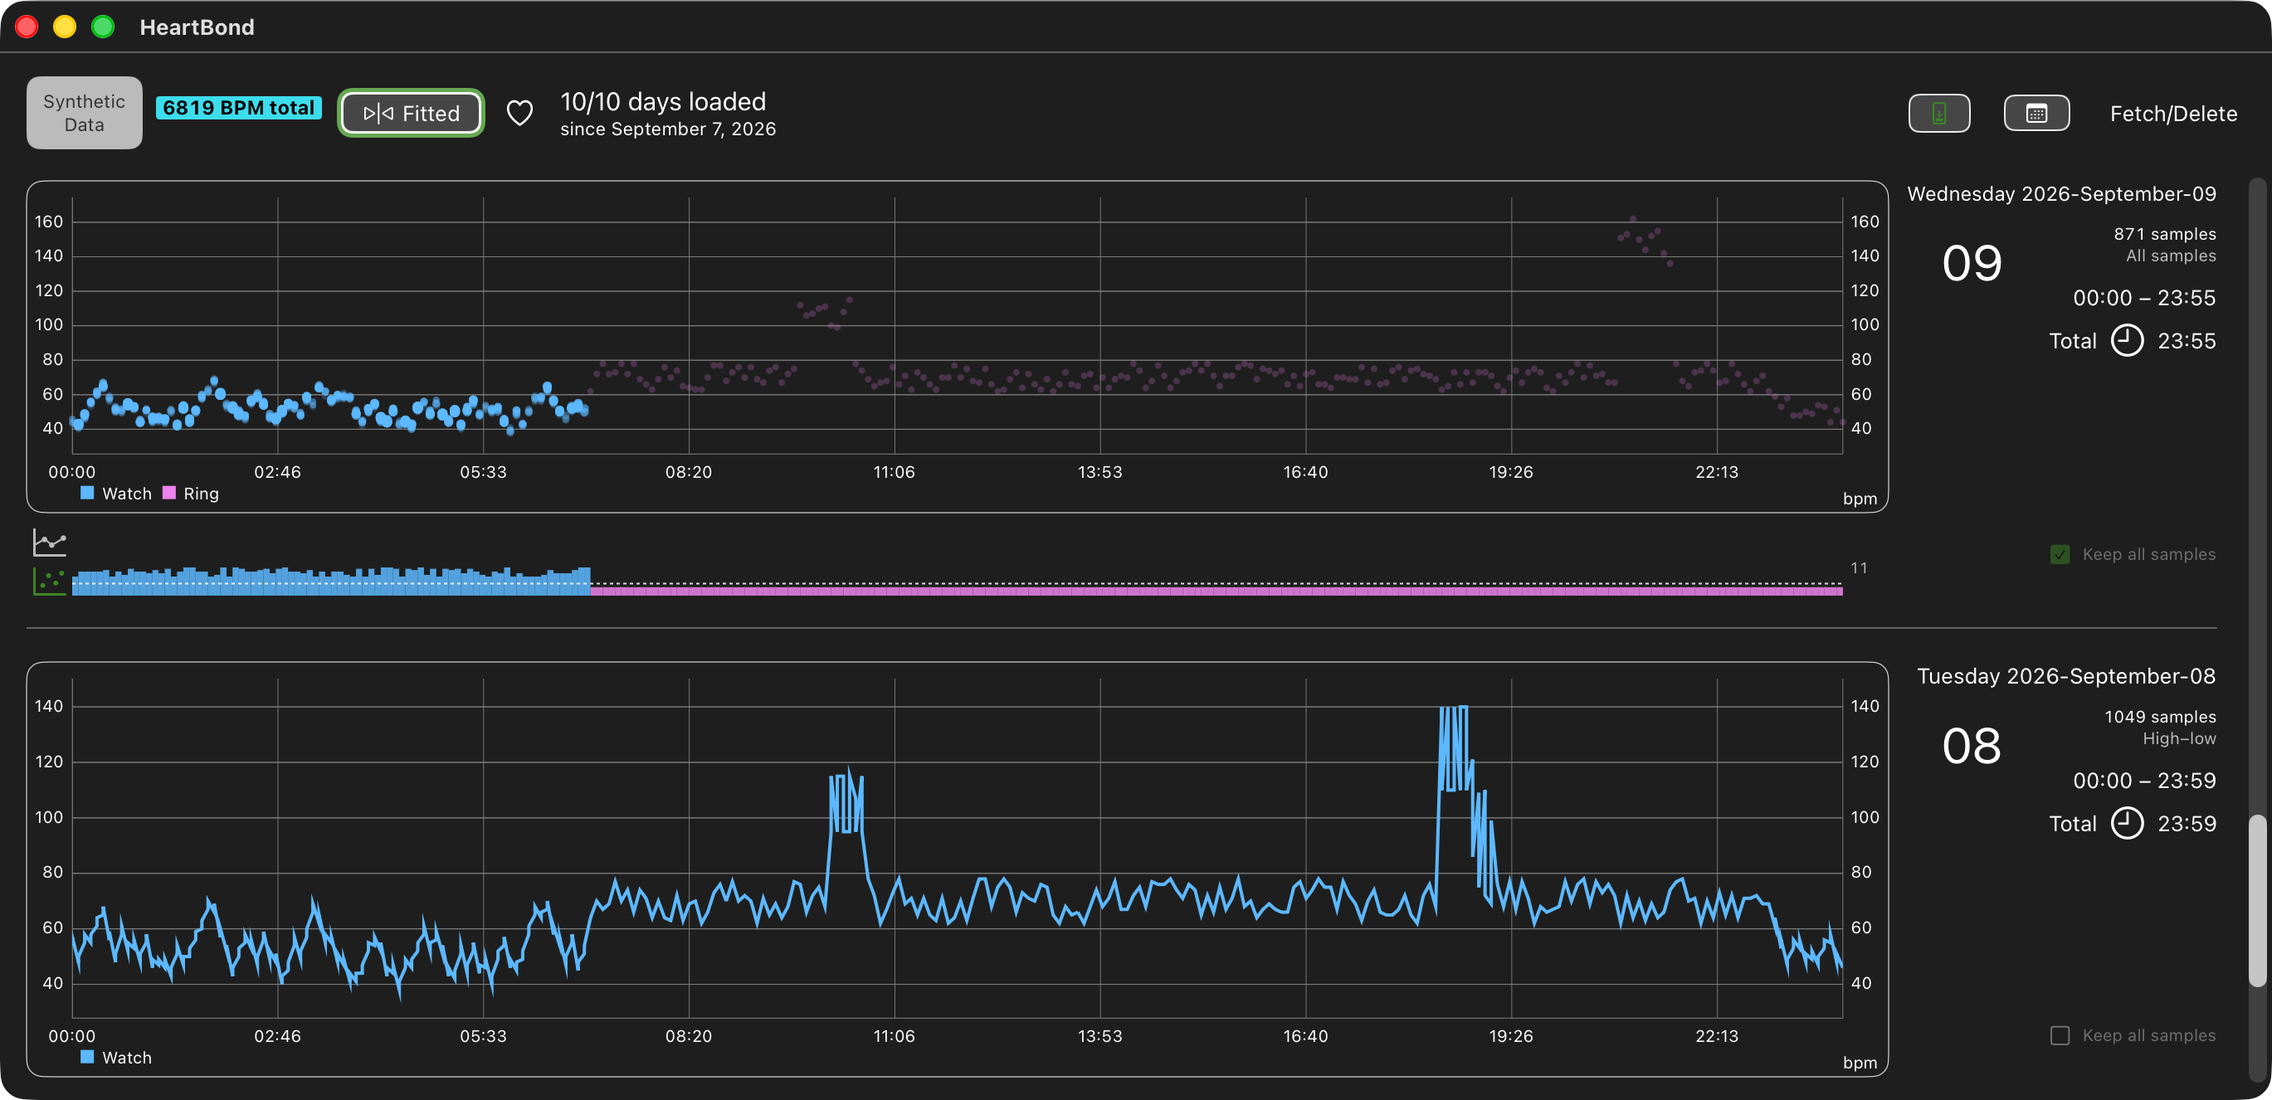
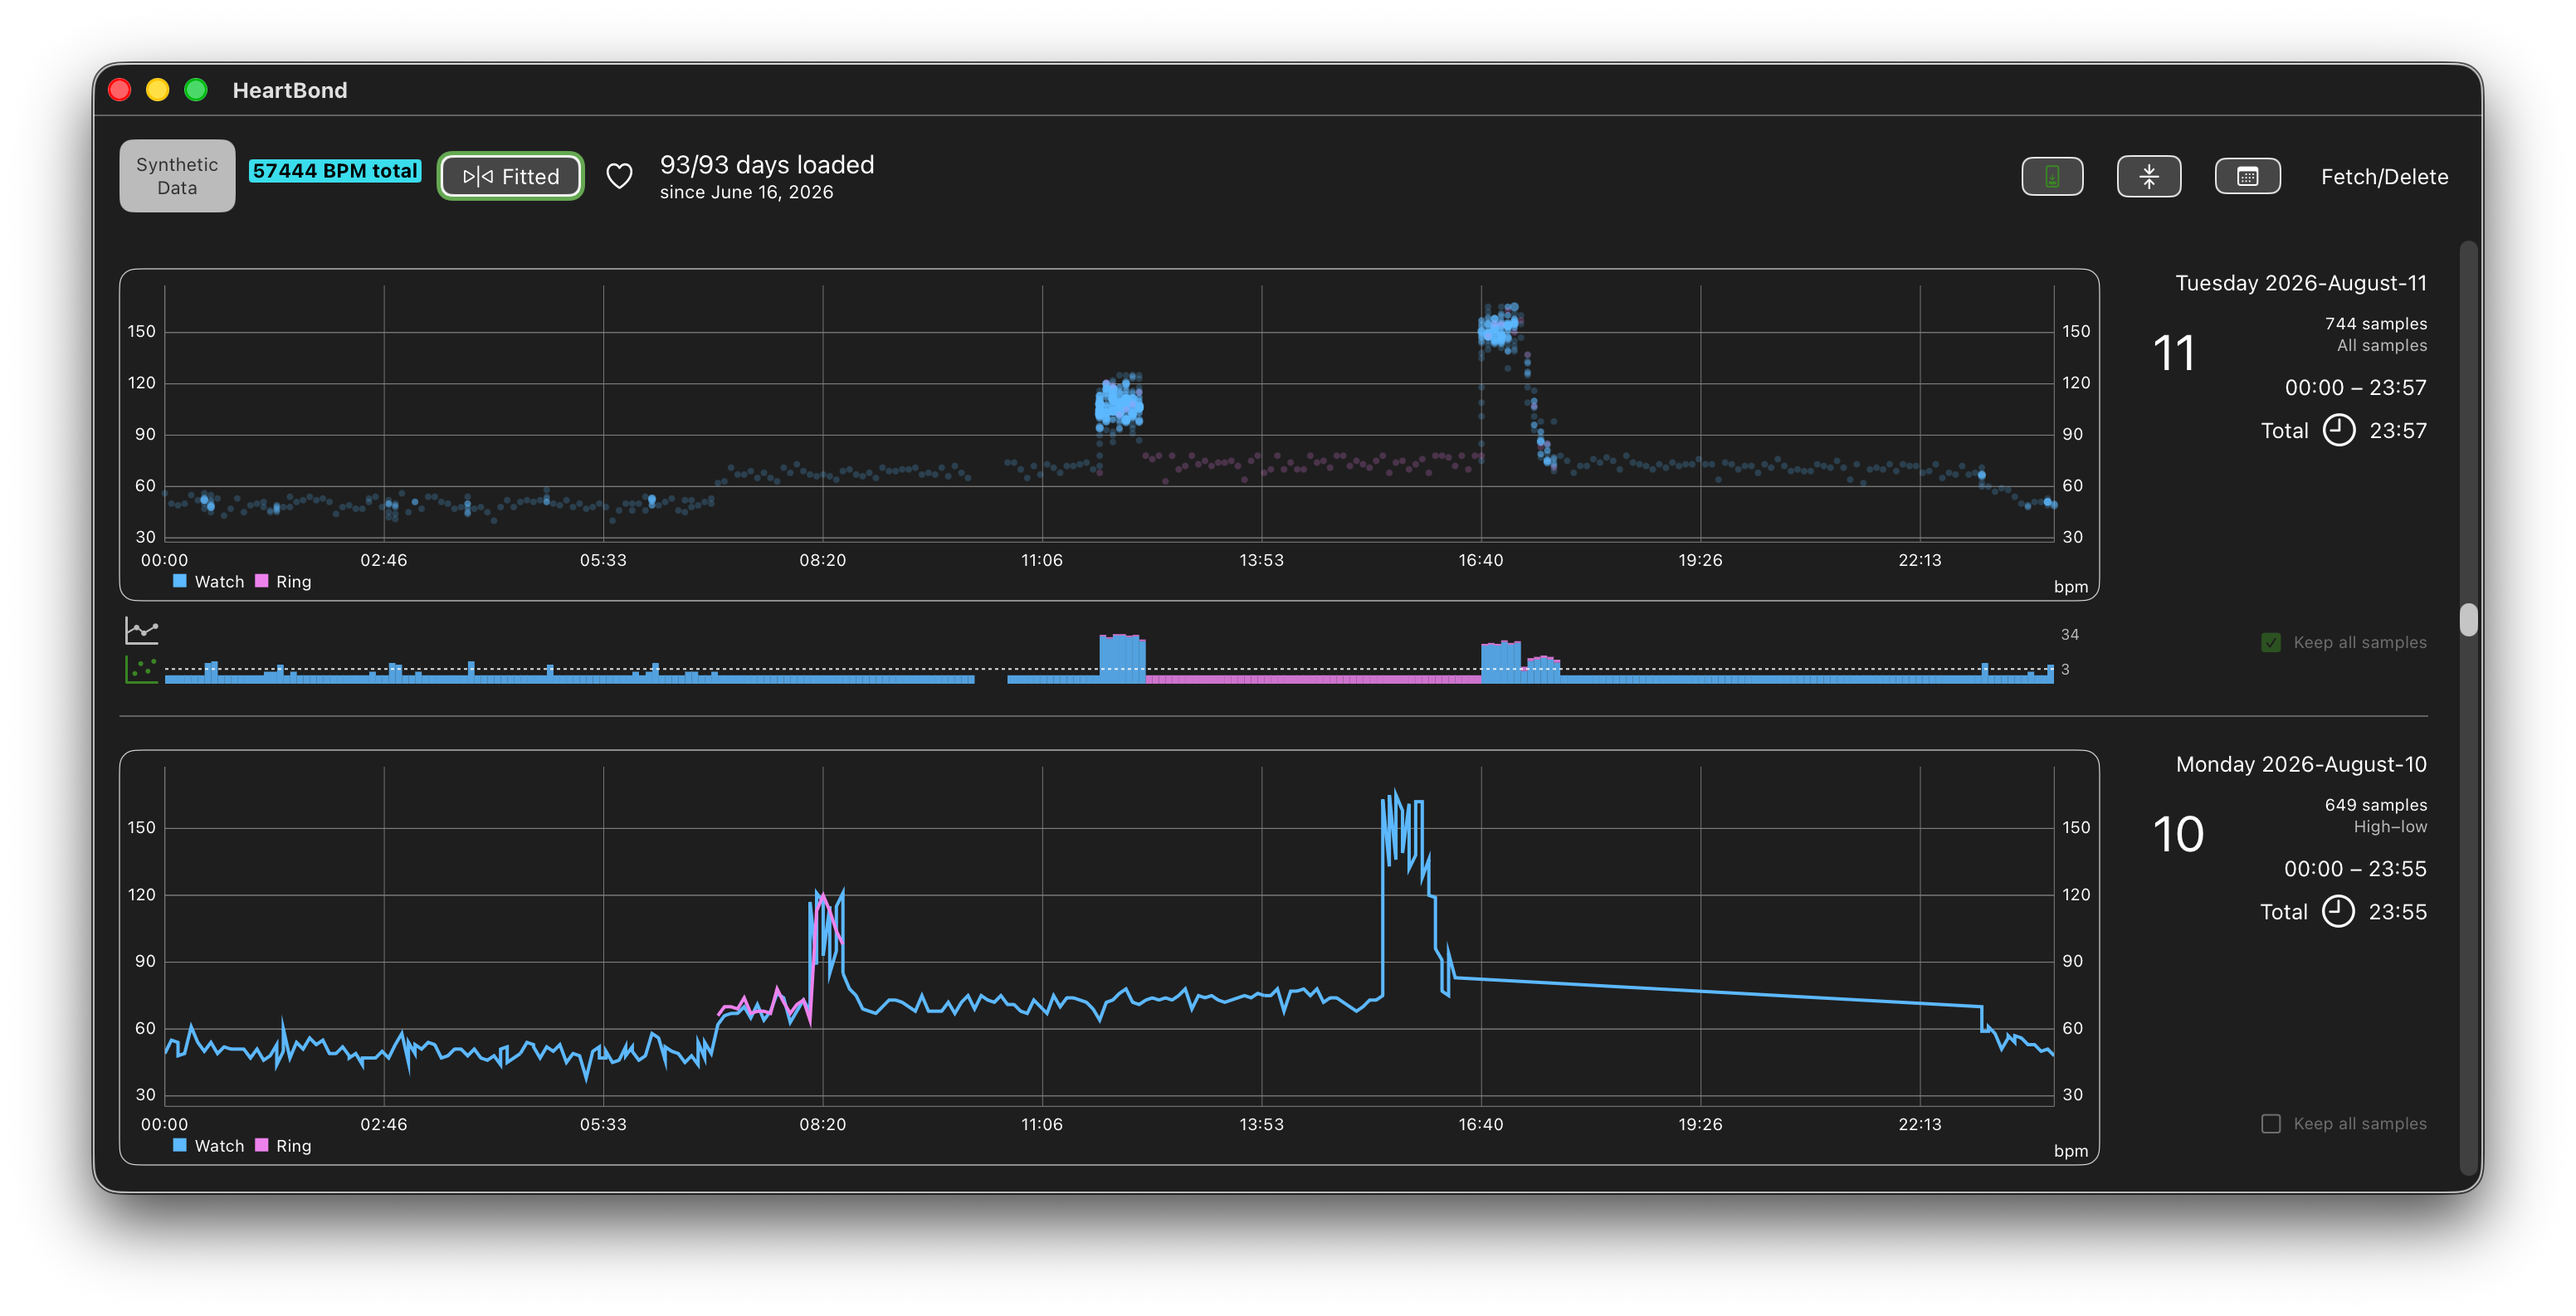
fix(home): drop manual hero frame styling for native screenshot shadow
Fixes:
- Replace hero-mac.png with a higher-resolution CleanShot capture (2738x1326 -> 3104x1586) that carries its own window chrome and alpha shadow
- Remove the drop-shadow hairline hack and --shot-edge custom properties, which only approximated the window edge and left a visible corner artifact
- Recompute hero caption margin from the new image's transparent padding so the gap tracks the window edge instead of the image box

Docs:
- Fix Watch/Ring color label in hero caption copy (purple -> violet) to match the rendered plot

diff --git a/src/app/pages/home/home.component.ts b/src/app/pages/home/home.component.ts
@@ -28,8 +28,8 @@ import COPY from '../../content/copy.json';
             class="hero__shot"
             [src]="copy.screenshot.src"
             [alt]="copy.screenshot.alt"
-            width="2738"
-            height="1326"
+            width="3104"
+            height="1586"
             fetchpriority="high">
         </div>
         <figcaption class="hero__caption">
@@ -135,24 +135,12 @@ import COPY from '../../content/copy.json';
       margin: 1.8rem auto 0;
     }
 
-    /* hero-mac.png carries its own rounded corners in its alpha channel: a
-       26 px transparent run at 2738 wide, which scales with the rendered
-       image. A CSS border-radius is a fixed px value, so it can only match
-       that curve at one viewport width. Everywhere else the frame's arc cuts
-       across the shot's transparent corner and the band shows through as a
-       light crescent. That mismatch is the corner artifact. The shot is the
-       shape: no radius, no border, no clip. drop-shadow follows the alpha
-       outline; box-shadow would trace the rect and reintroduce the arc.
-       The window chrome is a single device pixel at the PNG edge; at the
-       ~0.33x downscale the browser resamples it away. Redraw it at render
-       resolution with 0-blur drop-shadows. --rule is too faint for this;
-       --shot-edge is the token that makes the hairline read. */
+    /* hero-mac.png is the CleanShot window capture: the Mac window sits in a
+       soft alpha shadow field. A CSS drop-shadow or border-radius follows
+       that field, not the window edge, so the frame is only a size constraint. */
     .hero__frame {
       width: min(92%, 900px);
       margin: 0 auto;
-      filter: drop-shadow(1px 0 0 var(--shot-edge)) drop-shadow(-1px 0 0 var(--shot-edge))
-        drop-shadow(0 1px 0 var(--shot-edge)) drop-shadow(0 -1px 0 var(--shot-edge))
-        drop-shadow(var(--card-shadow));
     }
 
     .hero__shot {
@@ -163,7 +151,10 @@ import COPY from '../../content/copy.json';
 
     .hero__caption {
       width: min(92%, var(--max-width));
-      margin: 0.9rem auto 0;
+      /* 148px is the transparent pad under the window in the 3104-wide PNG.
+         Pull the caption up by that amount so the gap tracks the window, not
+         the image box. 2rem is the remaining space under the chrome. */
+      margin: calc(2rem - min(92%, 900px) * 148 / 3104) auto 0;
       color: var(--text-secondary);
       font-size: 0.84rem;
       line-height: 1.5;

diff --git a/src/index.html b/src/index.html
@@ -40,7 +40,6 @@
       --h2-rule: rgba(142, 63, 138, 0.28);
       --card-border: 1px solid rgba(201, 137, 201, 0.35);
       --card-shadow: 0 2px 24px rgba(42, 30, 45, 0.06);
-      --shot-edge: rgba(42, 30, 45, 0.28);
       --placeholder-edge: rgba(107, 90, 110, 0.45);
       --max-width: 760px;
     }
@@ -55,7 +54,6 @@
       --h2-rule: rgba(142, 63, 138, 0.28);
       --card-border: 1px solid rgba(201, 137, 201, 0.22);
       --card-shadow: 0 4px 20px rgba(42, 30, 45, 0.05);
-      --shot-edge: rgba(44, 36, 48, 0.28);
       --placeholder-edge: rgba(93, 83, 98, 0.45);
       --max-width: 800px;
     }
@@ -77,7 +75,6 @@
       --h2-rule: rgba(212, 163, 212, 0.35);
       --card-border: 1px solid rgba(255, 255, 255, 0.08);
       --card-shadow: 0 4px 28px rgba(0, 0, 0, 0.35);
-      --shot-edge: rgba(255, 255, 255, 0.18);
       --placeholder-edge: rgba(185, 168, 188, 0.5);
     }
   </style>
